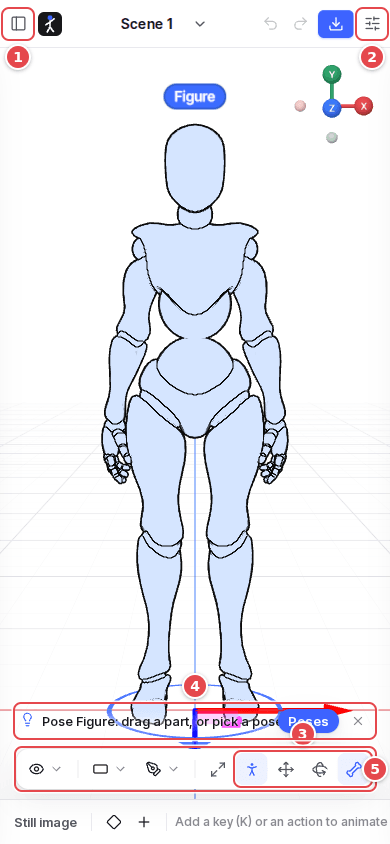
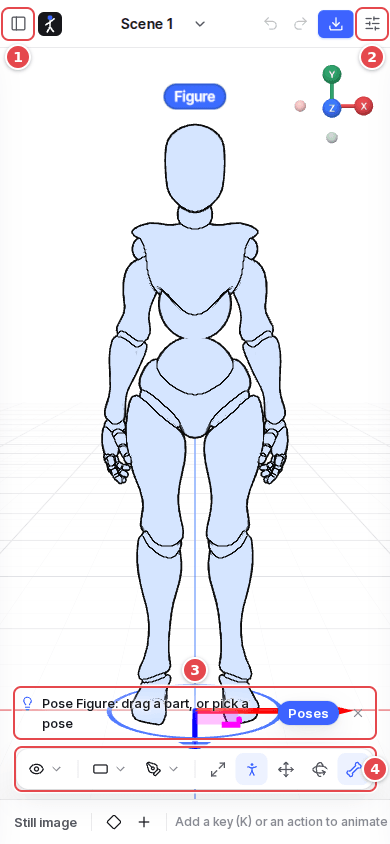
Review fixes: an action done in place ends on the mark it starts from (no second numbered mark under the figure's feet); the canvas hint on a phone wraps instead of running under its button; the touch target for Reach on a row of its own (it was cut to two letters); the body map a little larger; gui

diff --git a/app/globals.css b/app/globals.css
@@ -1353,7 +1353,7 @@ button.psec-title svg { color: var(--text-3); }
 .toolrow .ibtn:hover:not(:disabled) { background: var(--raised); box-shadow: 0 1px 2px color-mix(in srgb, var(--shade) 8%, transparent); }
 .toolrow-sep { width: 1px; height: 16px; background: var(--border-strong); flex: none; }
 
-.bodymap { display: block; width: 100%; max-width: 104px; height: auto; margin: 0 auto; }
+.bodymap { display: block; width: 100%; max-width: 120px; height: auto; margin: 0 auto; }
 .bodymap .part { cursor: pointer; outline: none; }
 /* (Each part filled, a hairline of the panel's colour between them, as a jointed mannequin's.) */
 .bodymap .part path { fill: var(--bodymap); stroke: var(--panel); stroke-width: 1.1; stroke-linejoin: round; transition: fill 0.12s; }
@@ -1372,7 +1372,9 @@ button.psec-title svg { color: var(--text-3); }
 .reach { display: grid; gap: 6px; }
 .reach-label { color: var(--text-2); }
 .reach-row { display: grid; grid-template-columns: minmax(0, 1fr) auto; gap: 6px; }
-.reach-row:has(> :nth-child(3)) { grid-template-columns: minmax(0, 1fr) auto auto; }
+/* (With Hold on too: where it touches on a row of its own, readable, the two buttons under it.) */
+.reach-row:has(> :nth-child(3)) { grid-template-columns: 1fr 1fr; }
+.reach-row:has(> :nth-child(3)) > :first-child { grid-column: 1 / -1; }
 .holds { list-style: none; margin: 8px 0 0; padding: 0; display: grid; gap: 2px; }
 .holds li { display: grid; grid-template-columns: minmax(0, 1fr) auto auto; gap: 6px; align-items: center; font-size: var(--fs-m); }
 .holds li span { overflow: hidden; text-overflow: ellipsis; white-space: nowrap; }
@@ -1708,6 +1710,9 @@ button.psec-title svg { color: var(--text-3); }
      note; not what the mouse and the keys do, which a touch screen has neither of.) */
   .stage-hint { bottom: calc(var(--tl-h, 44px) + 62px); }
   .stage-hint .bar-hint.plain { display: none; }
+  /* (Its words wrap within their parts too, narrow as it is: never under its buttons.) */
+  .stage-hint .bar-hint-text { flex: 1 1 auto; }
+  .stage-hint .hint-part { white-space: normal; }
   .export-grid, .photo-grid { grid-template-columns: 1fr; min-height: 0; }
   .export-outputs { border-right: 0; padding-right: 0; }
   .shortcuts { grid-template-columns: 1fr; }

diff --git a/components/Manipulators.tsx b/components/Manipulators.tsx
@@ -916,7 +916,13 @@ export function RouteOverlay({ store, scene, figureId, time }: { store: Store; s
         : [{ t: act.start + act.duration, ...marksOf(scene, act, figureId)!.end, moved: true, act: act.id, over: overWarp(scene, act, figureId) }];
       for (const m of stops) {
         const last = marks[marks.length - 1];
-        if (!last || m.moved || Math.hypot(m.at[0] - last.x, m.at[1] - last.z) > 0.15) marks.push({ t: m.t, x: m.at[0], z: m.at[1], facing: m.facing, act: m.act, over: m.over });
+        const mark = { t: m.t, x: m.at[0], z: m.at[1], facing: m.facing, act: m.act, over: m.over };
+        // (An action ending where the last mark is, done in place: that mark is its end, not a second one under it.)
+        if (last && Math.hypot(m.at[0] - last.x, m.at[1] - last.z) <= 0.15) {
+          if (m.moved) marks[marks.length - 1] = mark;
+          continue;
+        }
+        marks.push(mark);
       }
     }
     return { ...path, marks };

diff --git a/scripts/doc-shots.ts b/scripts/doc-shots.ts
@@ -407,7 +407,8 @@ const SHOTS: Shot[] = [
       await fresh(page);
       await canvas(page).click({ position: { x: 5, y: 300 } });
       await page.keyboard.press('p');
-      await idle(page, 900);
+      // (Settled: not as it appears.)
+      await idle(page, 2500);
     },
   },
   {
